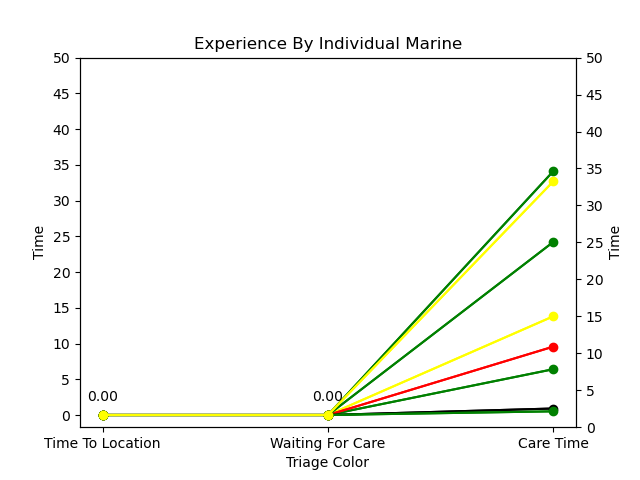
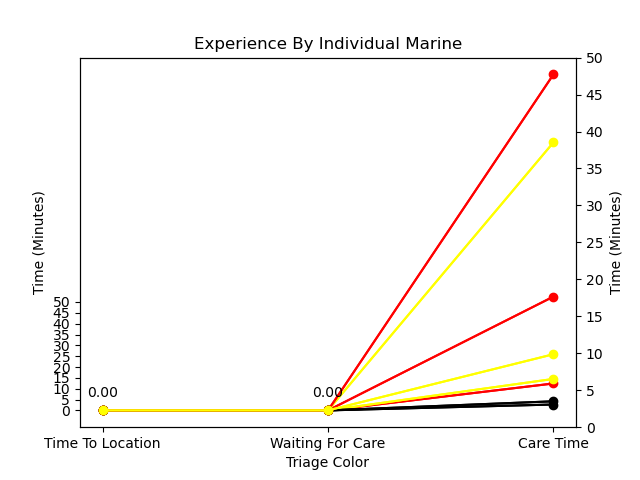
updated graph labelling

diff --git a/main.py b/main.py
@@ -321,8 +321,8 @@ class Graph:
         
         #Set More Graph Details
         ax1.set_xlabel("Triage Color")
-        ax1.set_ylabel("Time")
-        ax2.set_ylabel("Time")
+        ax1.set_ylabel("Time (Minutes)")
+        ax2.set_ylabel("Time (Minutes)")
         ax1.set_title("Experience By Individual Marine")
         ax1.set_xticks(y_positions)
         ax1.set_xticklabels(time_categories)
@@ -386,8 +386,8 @@ class Graph:
 
         #Set More Graph Details
         ax1.set_xlabel("Triage Color")
-        ax1.set_ylabel("Time")
-        ax2.set_ylabel("Time")
+        ax1.set_ylabel("Time (Minutes)")
+        ax2.set_ylabel("Time (Minutes)")
         ax1.set_title("Average Marine Experience by Triage Color")
         ax1.set_xticks(y_positions)
         ax1.set_xticklabels(time_categories)
@@ -422,8 +422,8 @@ class Graph:
 
         #Set More Graph Details
         ax1.set_xlabel("Average Marine Regardless of Triage Color")
-        ax1.set_ylabel("Time")
-        ax2.set_ylabel("Time")
+        ax1.set_ylabel("Time (Minutes)")
+        ax2.set_ylabel("Time (Minutes)")
         ax1.set_title("Average Marine Experience Regardless of Triage Color")
         ax1.set_xticks(y_positions)
         ax1.set_xticklabels(time_categories)
